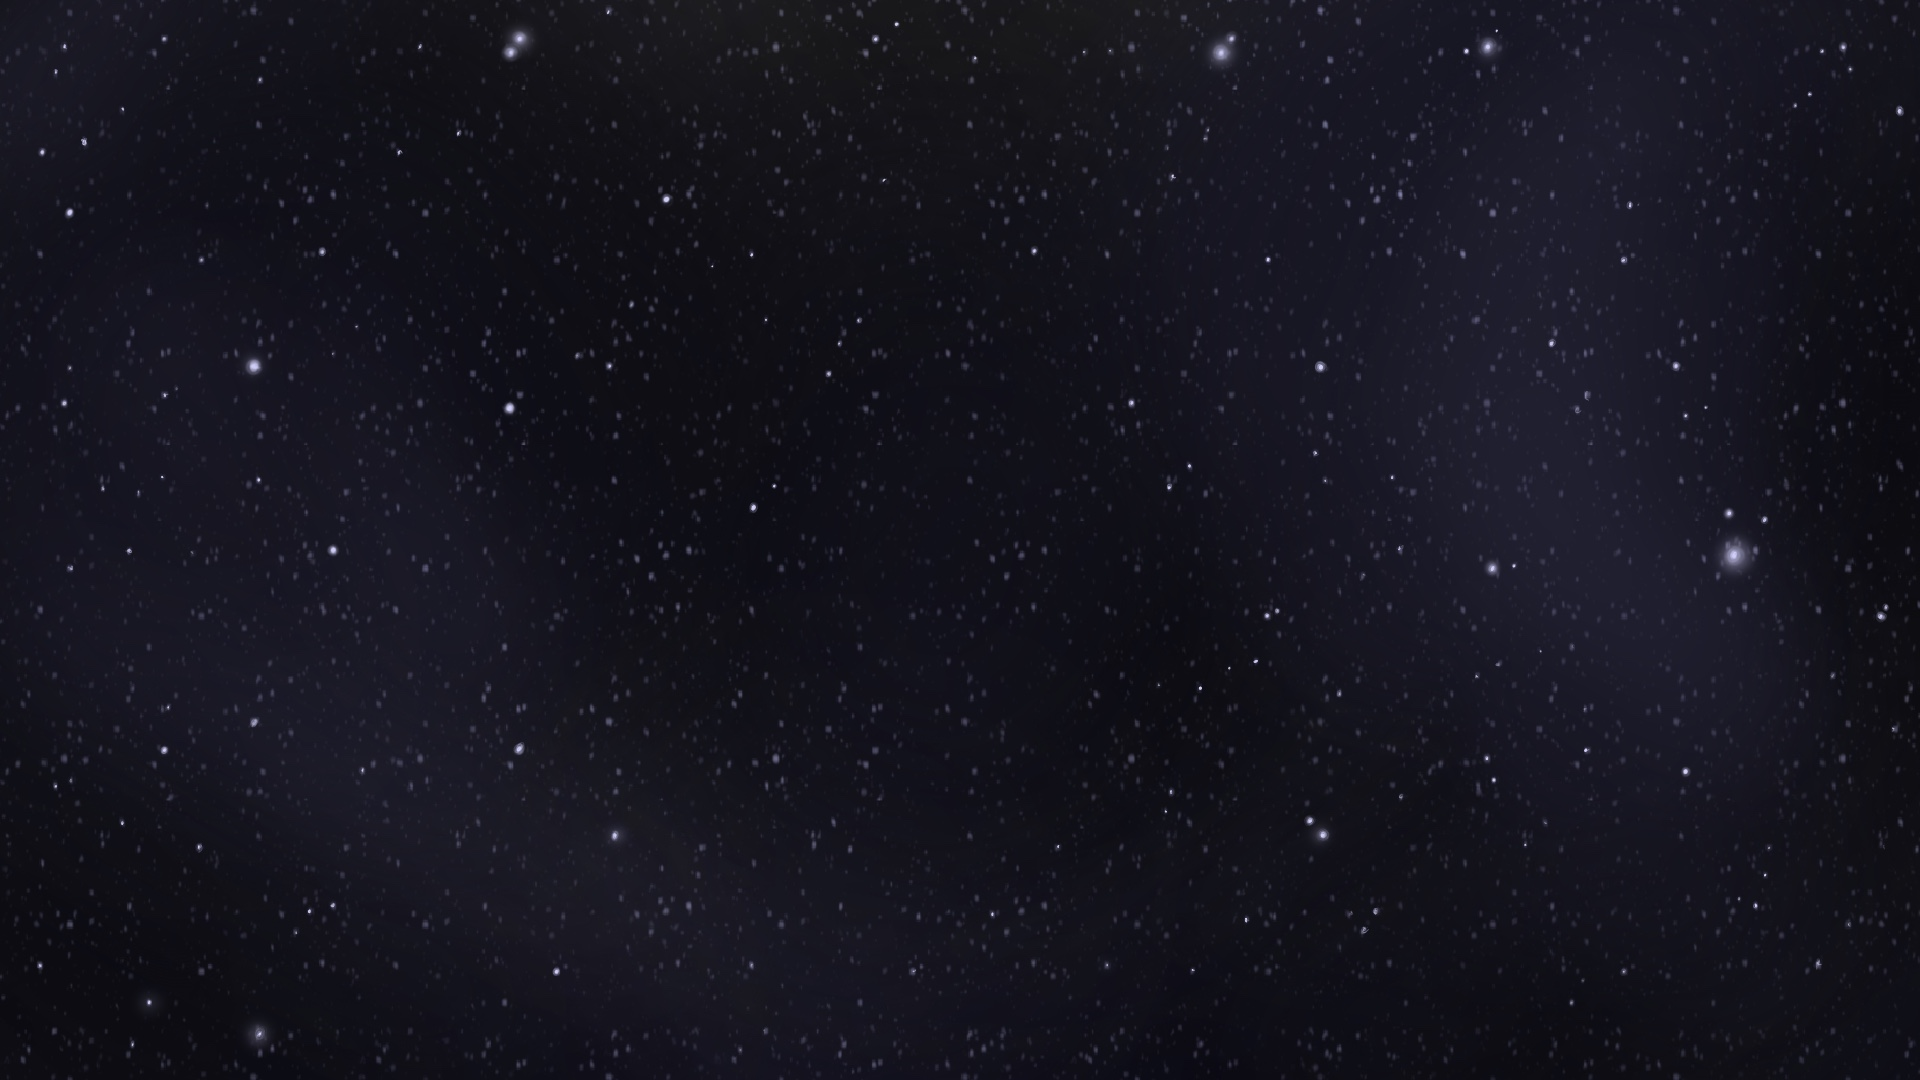
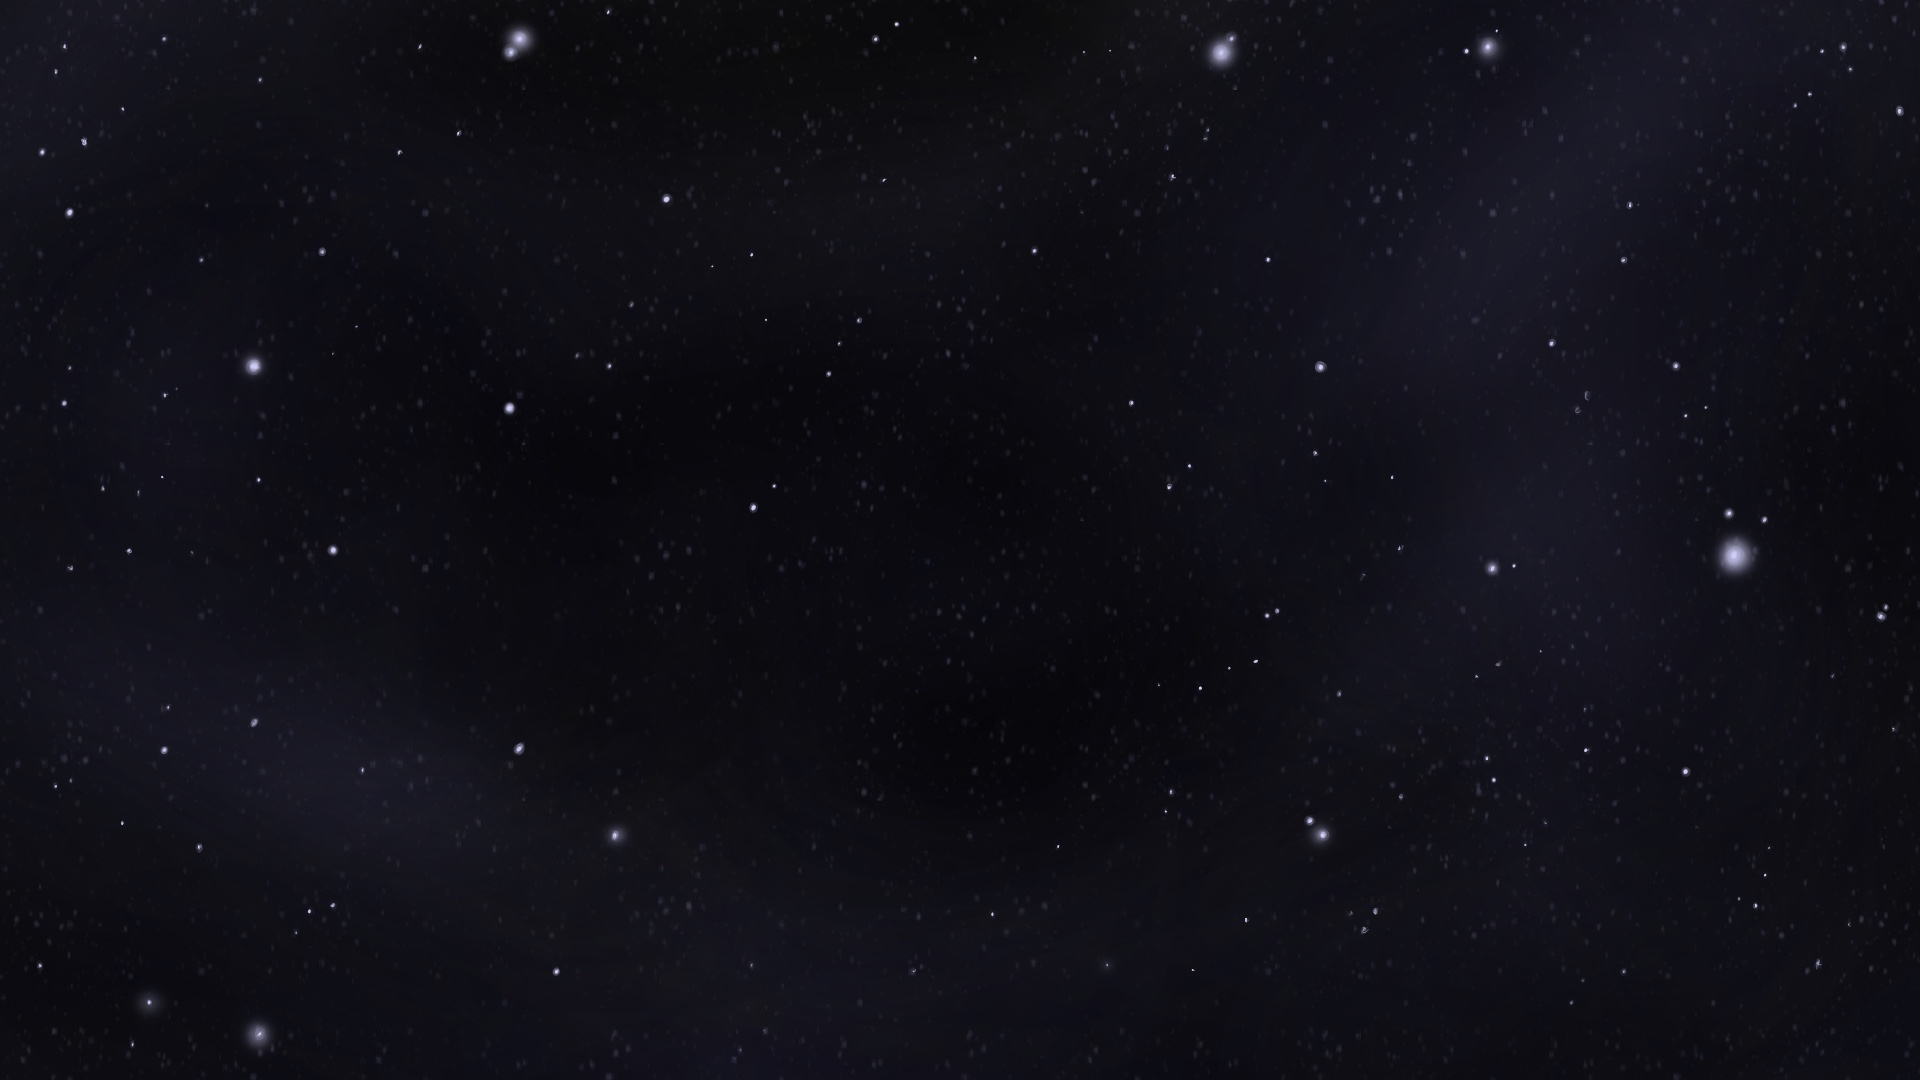
bg

diff --git a/e-ball.css b/e-ball.css
@@ -11,7 +11,11 @@ body {
       background-size: cover;  
     }
 
- 
+    html, body {
+      min-height: 100vh;
+      margin: 0;
+    }
+
     .screen {
       display: none;
       padding: 40px 20px;
